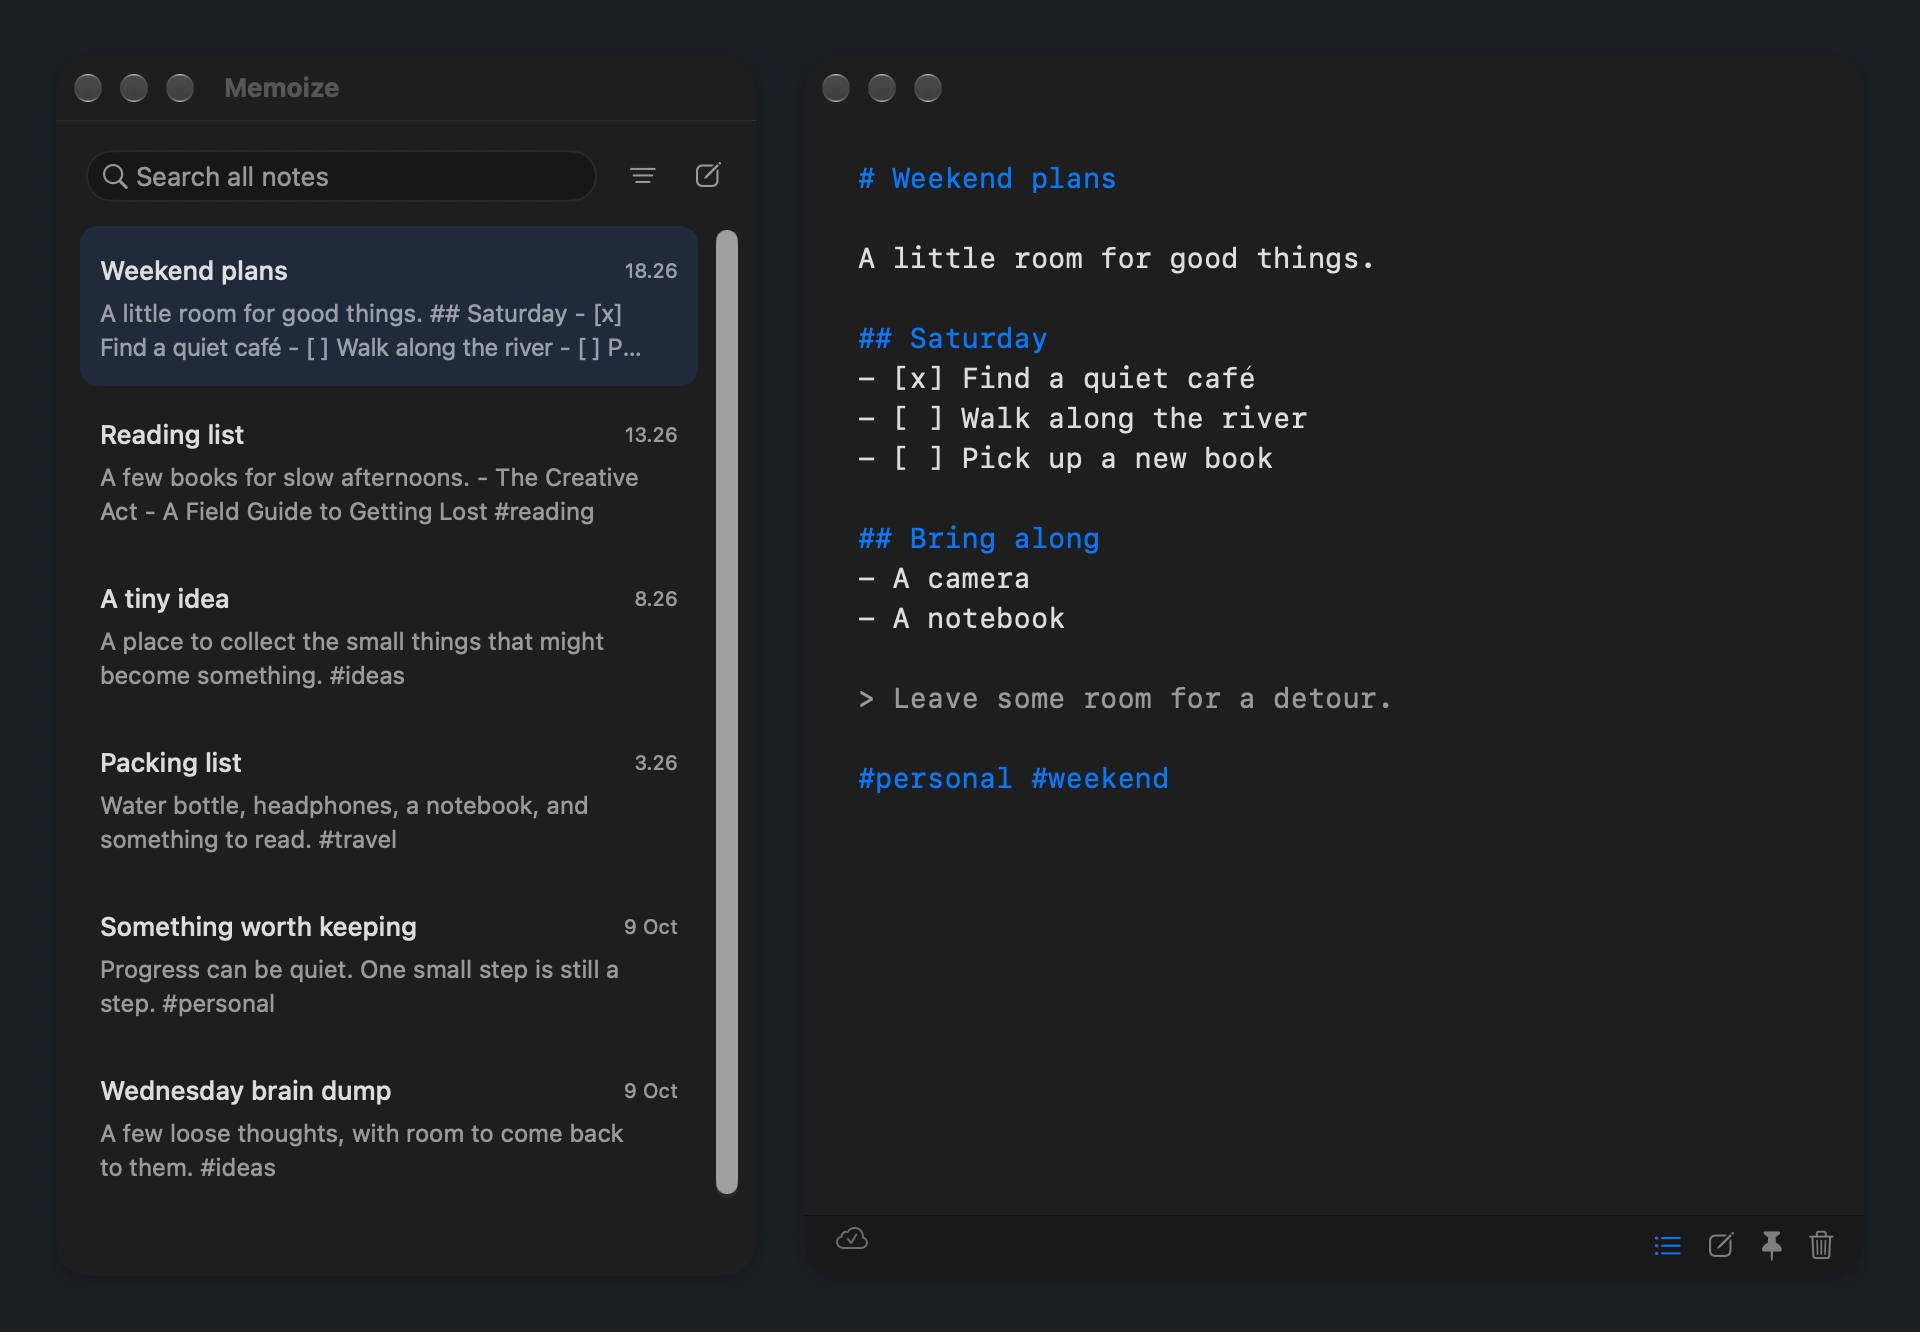
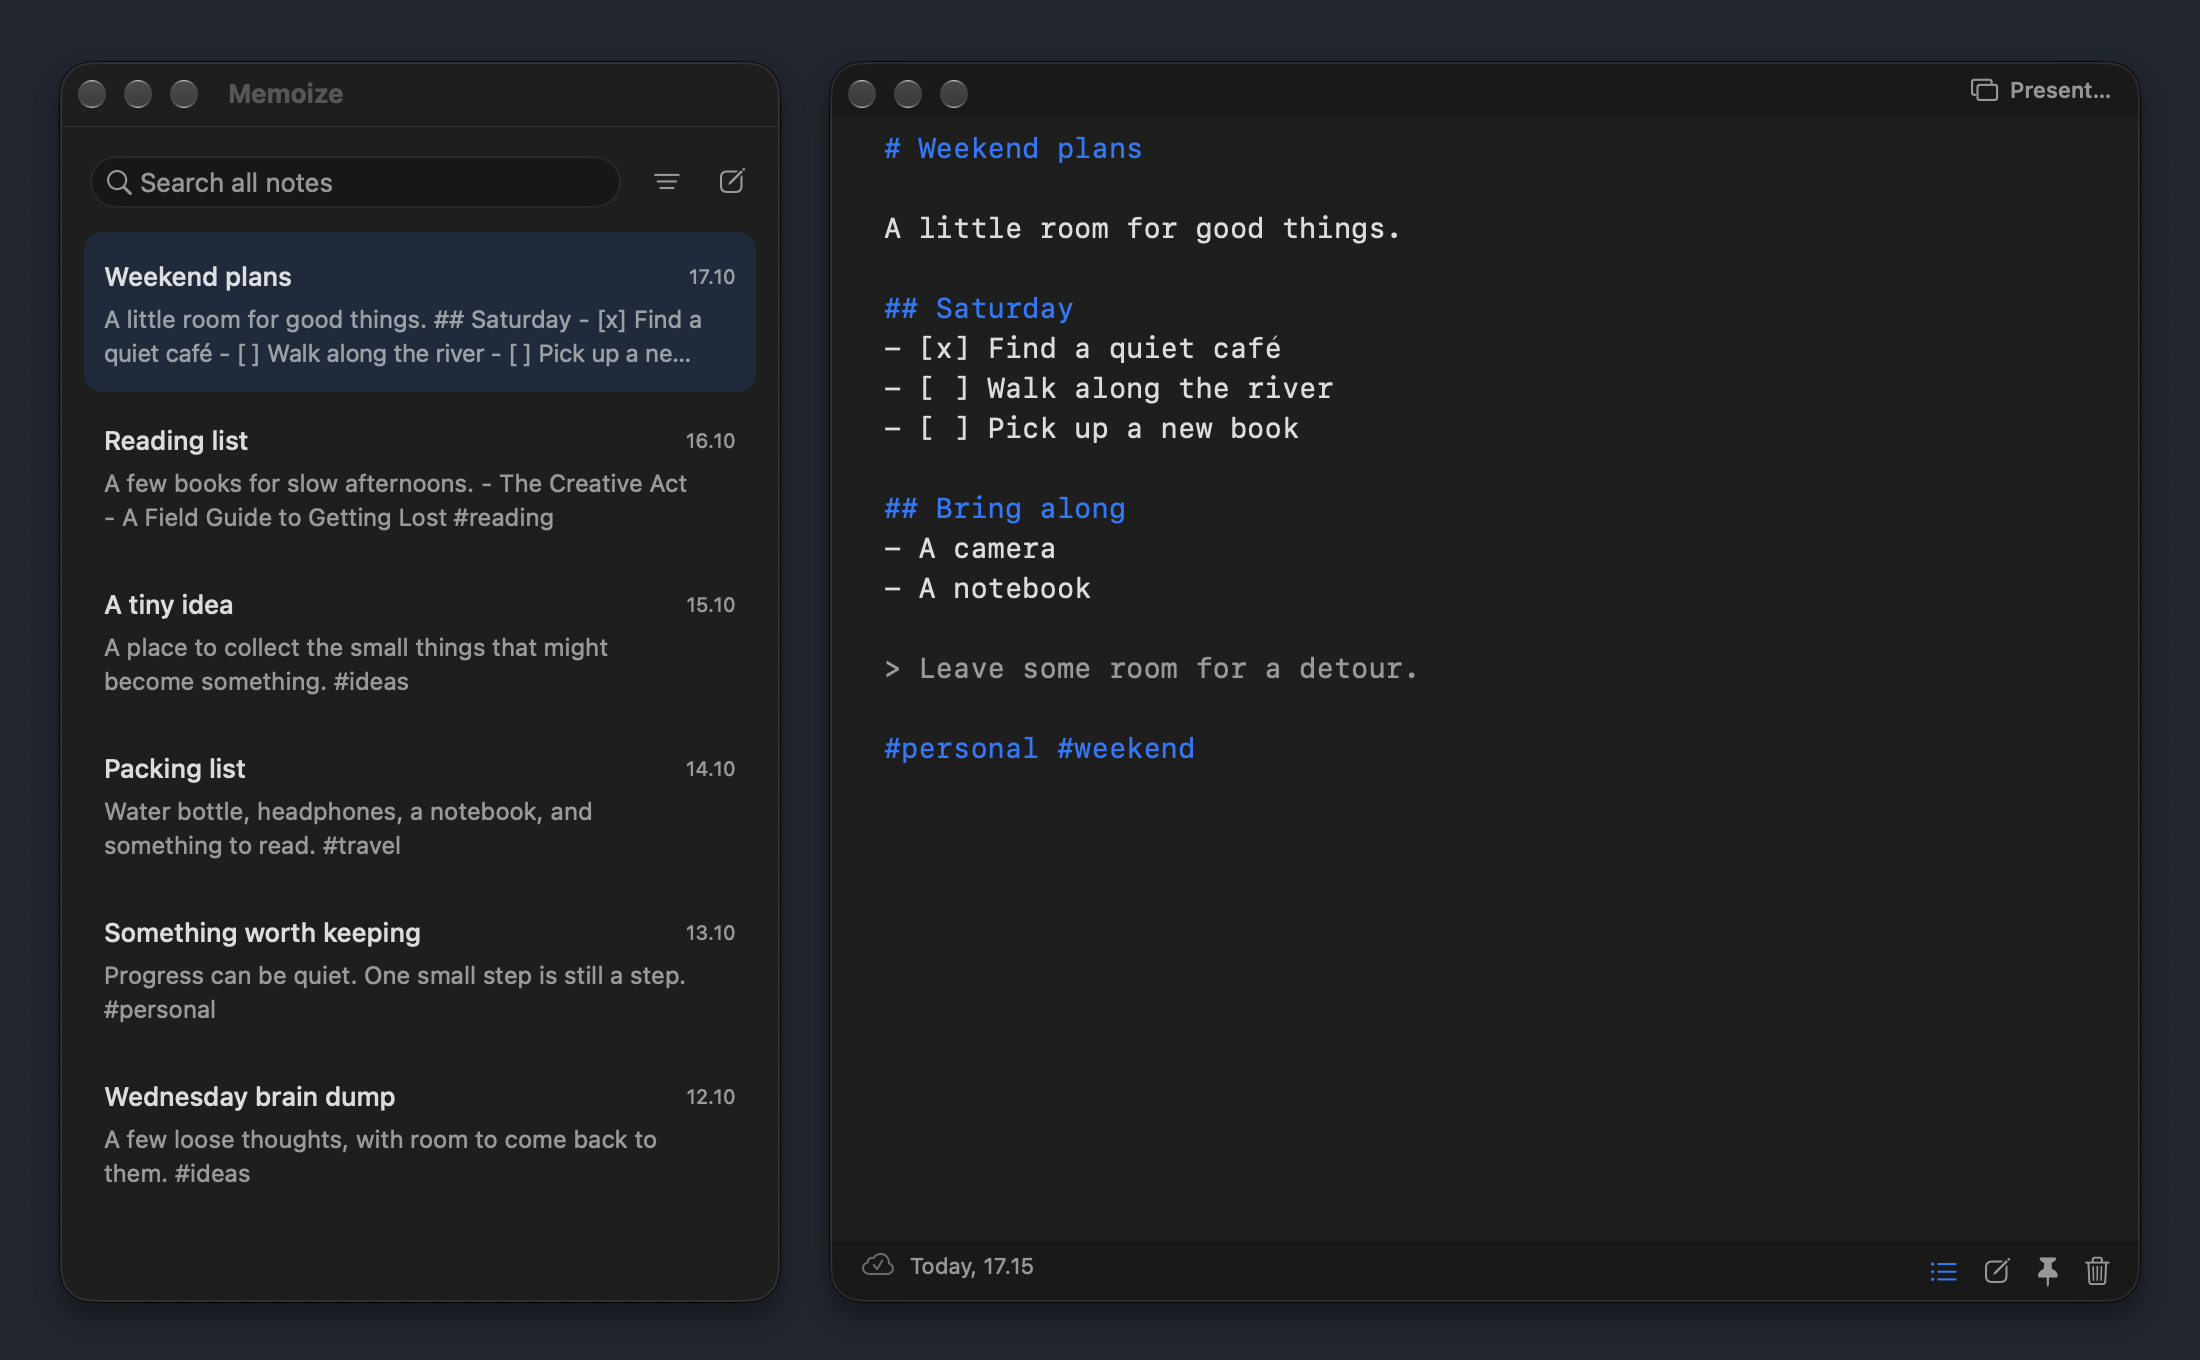
docs: refresh Mac screenshots with current editor controls

diff --git a/README.md b/README.md
@@ -8,10 +8,12 @@ A small, native Mac and Android client for [Memos](https://github.com/usememos/m
 - Instant keyboard navigation, local search, and tag filtering
 - Offline notes with automatic saves and background sync
 
+**macOS**
+
 <picture>
   <source media="(prefers-color-scheme: dark)" srcset="assets/screenshot-dark.png">
   <source media="(prefers-color-scheme: light)" srcset="assets/screenshot.png">
-  <img src="assets/screenshot.png" alt="Memoize's notes menu and floating editor with sample notes">
+  <img src="assets/screenshot.png" alt="Memoize on macOS: searchable notes beside the floating Markdown editor, with window controls and the editor toolbar">
 </picture>
 
 ## Install
